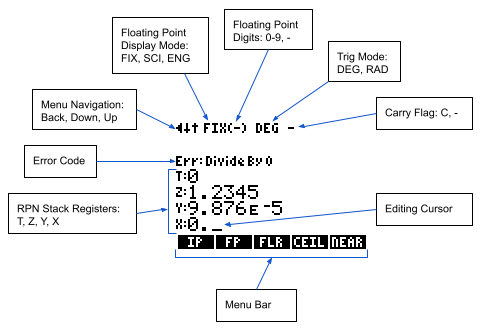
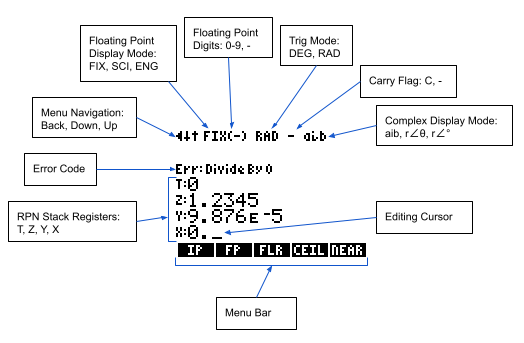
USER_GUIDE.md: update initial screenshots and key bindings with complex entry functions

diff --git a/docs/USER_GUIDE.md b/docs/USER_GUIDE.md
@@ -364,6 +364,14 @@ The following buttons are used to enter and edit a number in the input buffer:
   as `E` or `EEX` on HP calculators)
 - `,`: same as `2ND` `EE`, allowing the `2ND` to be omitted for convenience
 
+The following keys are related to complex numbers and are explained in more
+detail in the [Complex Numbers](#complex-numbers) section below:
+
+- `2ND LINK`: convert `X` and `Y` into a complex number in `X`, or the reverse
+- `2ND ANGLE`: enter a complex number in polar degree form
+- `2ND ANGLE` `2ND ANGLE`: enter a complex number polar radian form
+- `2ND i`: enter a complex number in rectangular form
+
 The `(-)` button acts like the `+/-` or `CHS` button on HP calculators. It
 toggles the negative sign, adding it if it does not exist, and removing it if it
 does.
@@ -390,17 +398,9 @@ to reflect their mental state when starting a new calculation. The `CLST` menu
 function provides this feature, but is nested under the `ROOT > CLR > CLST` menu
 hierarchy. If you are deeply nested under another part of the menu hierarchy, it
 can be cumbersome to navigate back up to the `ROOT`, invoke the `CLST` button,
-then make your way back to the original menu location.
-
-On RPN calculators with multiple lines such as the HP-42S, the `CLEAR` menu bar
-can be reached using a direct keyboard shortcut, and the `CLST` function is only
-2 or 3 keystrokes away. The RPN83P app uses the key buttons already provided by
-the TI-83+ and TI-84+ calculators, and unfortunately, there is no obvious button
-shortcut that can be used for the `CLR` menu bar. The obvious choice would have
-been the `2ND CLEAR`, but the TI-OS does not support that. It returns the same
-keycode as just `CLEAR`. The only reasonable alternative was to overload the
-existing `CLEAR` button, so that it performs the additional function of `CLST`
-when the button is pressed multiple times.
+then make your way back to the original menu location. To solve this problem,
+the RPN83P app will invoke `CLST` function when `CLEAR` is hit 3 times. (The
+TI-OS does not support `2ND CLEAR`, it returns the same code as `CLEAR`.)
 
 An empty string will be interpreted as a `0` if the `ENTER` key or a function
 key is pressed.
